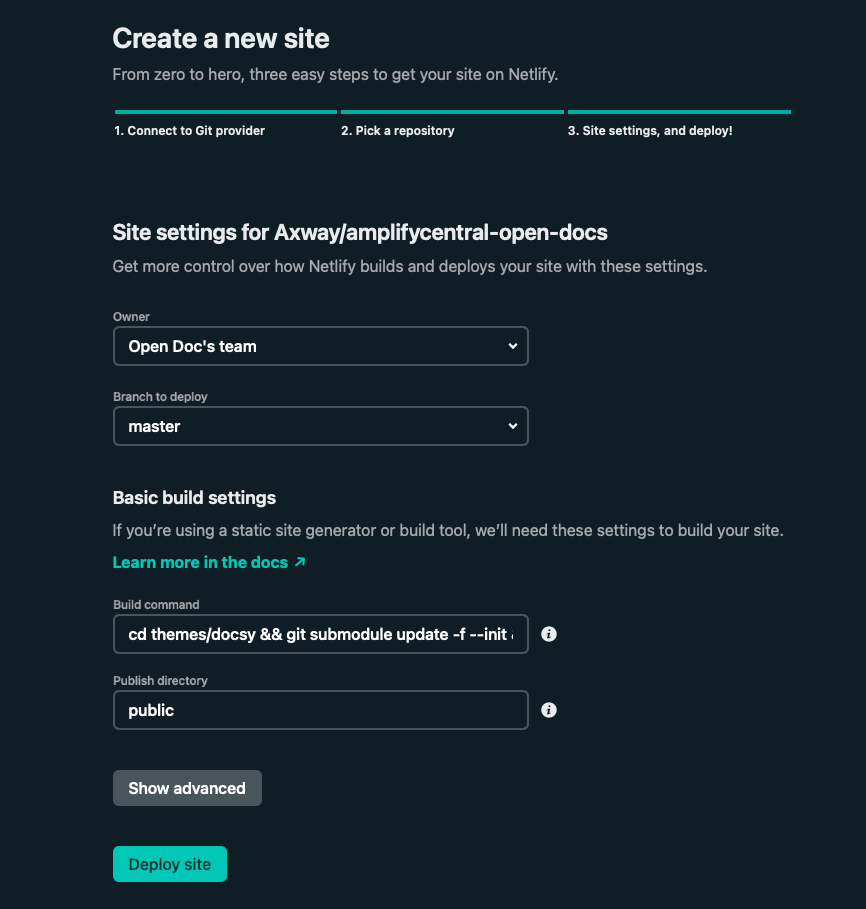
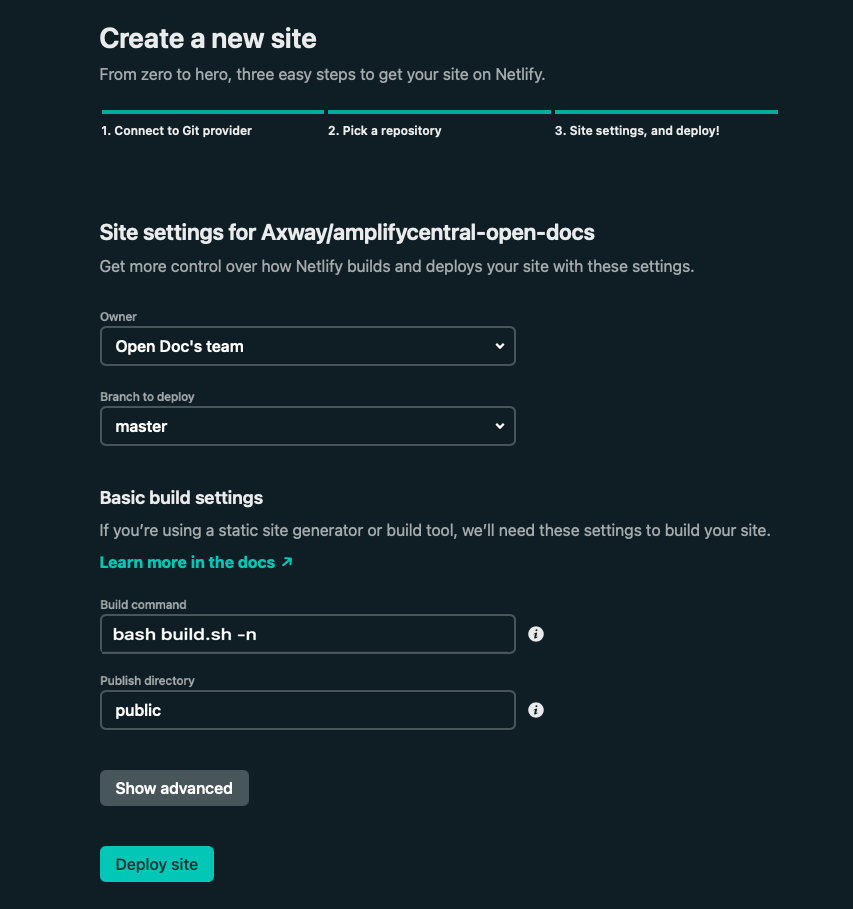
updated netlify site config for authorizing Netlify to  GitHub

diff --git a/README.md b/README.md
@@ -73,11 +73,13 @@ Create a new site from your microsite repo in Netlify:
 1. Log in to [OpenDocs Netlify account](https://app.netlify.com/teams/opendocs/sites).
 2. Click **New site from Git**.
 3. Click **GitHub**. You'll be asked to authorize Netlify to your account.
-4. On the **Create a new site** dialog, select the **Axway** GitHub organization and then, select your GitHub repo from the list or search for it.
+4. On the **Create a new site** dialog, select the **Axway** GitHub organization select Configure the Netlify app on GitHub.
 
     ![Select GitHub repo](/static/Images/netlify_select_repo.png)
 
-5. The **Create a new site** for your GitHub repo page appears with a list of site settings. Leave the default settings (**Open docs team** as Owner, **master** as branch to deploy, build command `cd themes/docsy && git submodule update -f --init && cd ../.. && hugo.` and publish directory is **public**), and then click **Deploy site**.
+5. Click **Update access**.
+
+6. The **Create a new site** for your GitHub repo page appears with a list of site settings. Leave the default settings (**Open docs team** as Owner, **master** as branch to deploy, build command `bash build.sh -n.` and publish directory is **public**), and then click **Deploy site**.
 
     ![Add site to Netlify](/static/Images/netlify_deploy_site.png)
 
@@ -270,6 +272,7 @@ You must configure dependabot alerts and security updates for your microsite rep
 
 You must add rules to protect the `master` branch:
 
+* Type the branch name pattern `mater` 
 * It must require pull request reviews before merging (at least 1 review from a technical writer or doc owner)
 * It must require status checks to pass before merging. The following status checks must be enabled:
   * Axway CLA
@@ -278,9 +281,8 @@ You must add rules to protect the `master` branch:
   * Pages changed
   * Redirect rules
   * Mixed content
-  * deploy/netlify
-
-  The **deploy/netlify** check is dependent on adding the **Add Deploy Preview notifications to commits when Deploy Preview succeeds** notification in Netlify that you completed in '[Add deploy preview as comment to pull requests](#add-deploy-preview-as-comment-to-pull-requests).' If you don't add this notification, the **deploy/netlify** status check is unable to pass, which blocks the pull request.
+  * deploy/netlify - The **deploy/netlify** check is dependent on adding the **Add Deploy Preview notifications to commits when Deploy Preview succeeds** notification in Netlify that you completed in '[Add deploy preview as comment to pull requests](#add-deploy-preview-as-comment-to-pull-requests).' If you don't add this notification, the **deploy/netlify** status check is unable to pass, which blocks the pull request.
+* It must require linear history
 
 ![Branch protections](/static/Images/microsite_github_protections.png)
 
